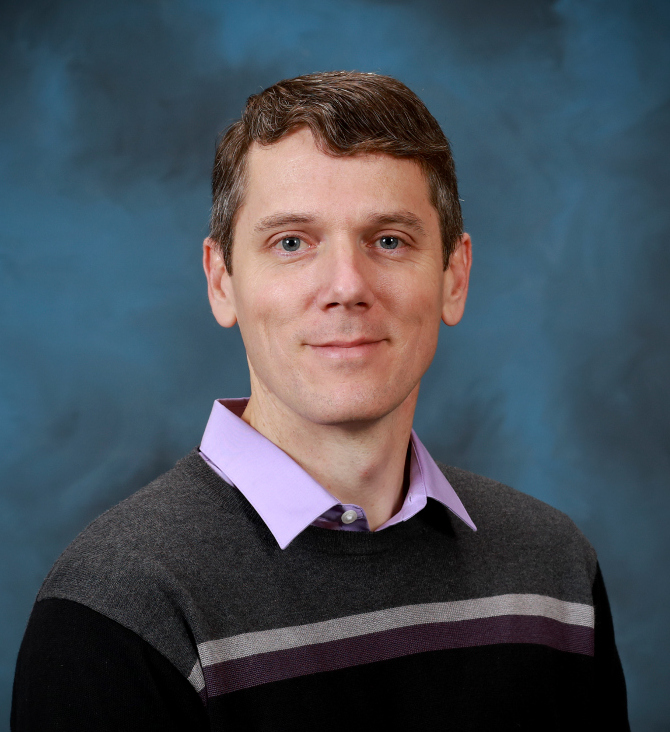
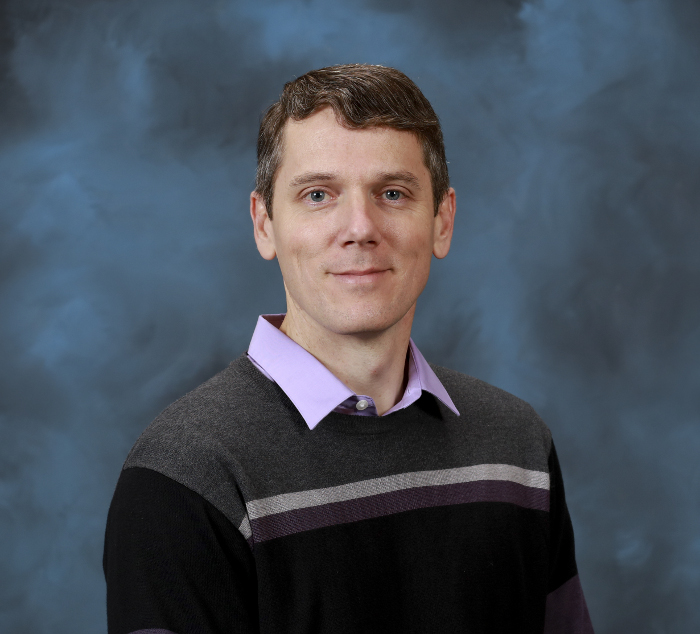
Updated portrait

diff --git a/index.html b/index.html
@@ -49,7 +49,7 @@
             <div class="col-md-9">
                 <div class="row">
                     <div class="col-md-4 col-sm-6 col-xs-9">
-                        <img id="msb-img" src="img/cas-portrait-new2.jpg" class="img-responsive" style="margin-bottom: 10px;">
+                        <img id="msb-img" src="img/cas-portrait-new.jpg" class="img-responsive" style="margin-bottom: 10px;">
                     </div> <!-- /col-md-4 -->
                     <div class="col-md-8 col-sm-6 col-xs-12">
                         <p class="lead">I design interactive data visualization and analysis systems to enhance human exploration and comprehension of complex data.  My research combines data-guided, machine-enabled, and human-directed techniques with cross-cutting scientific applications.</p>
